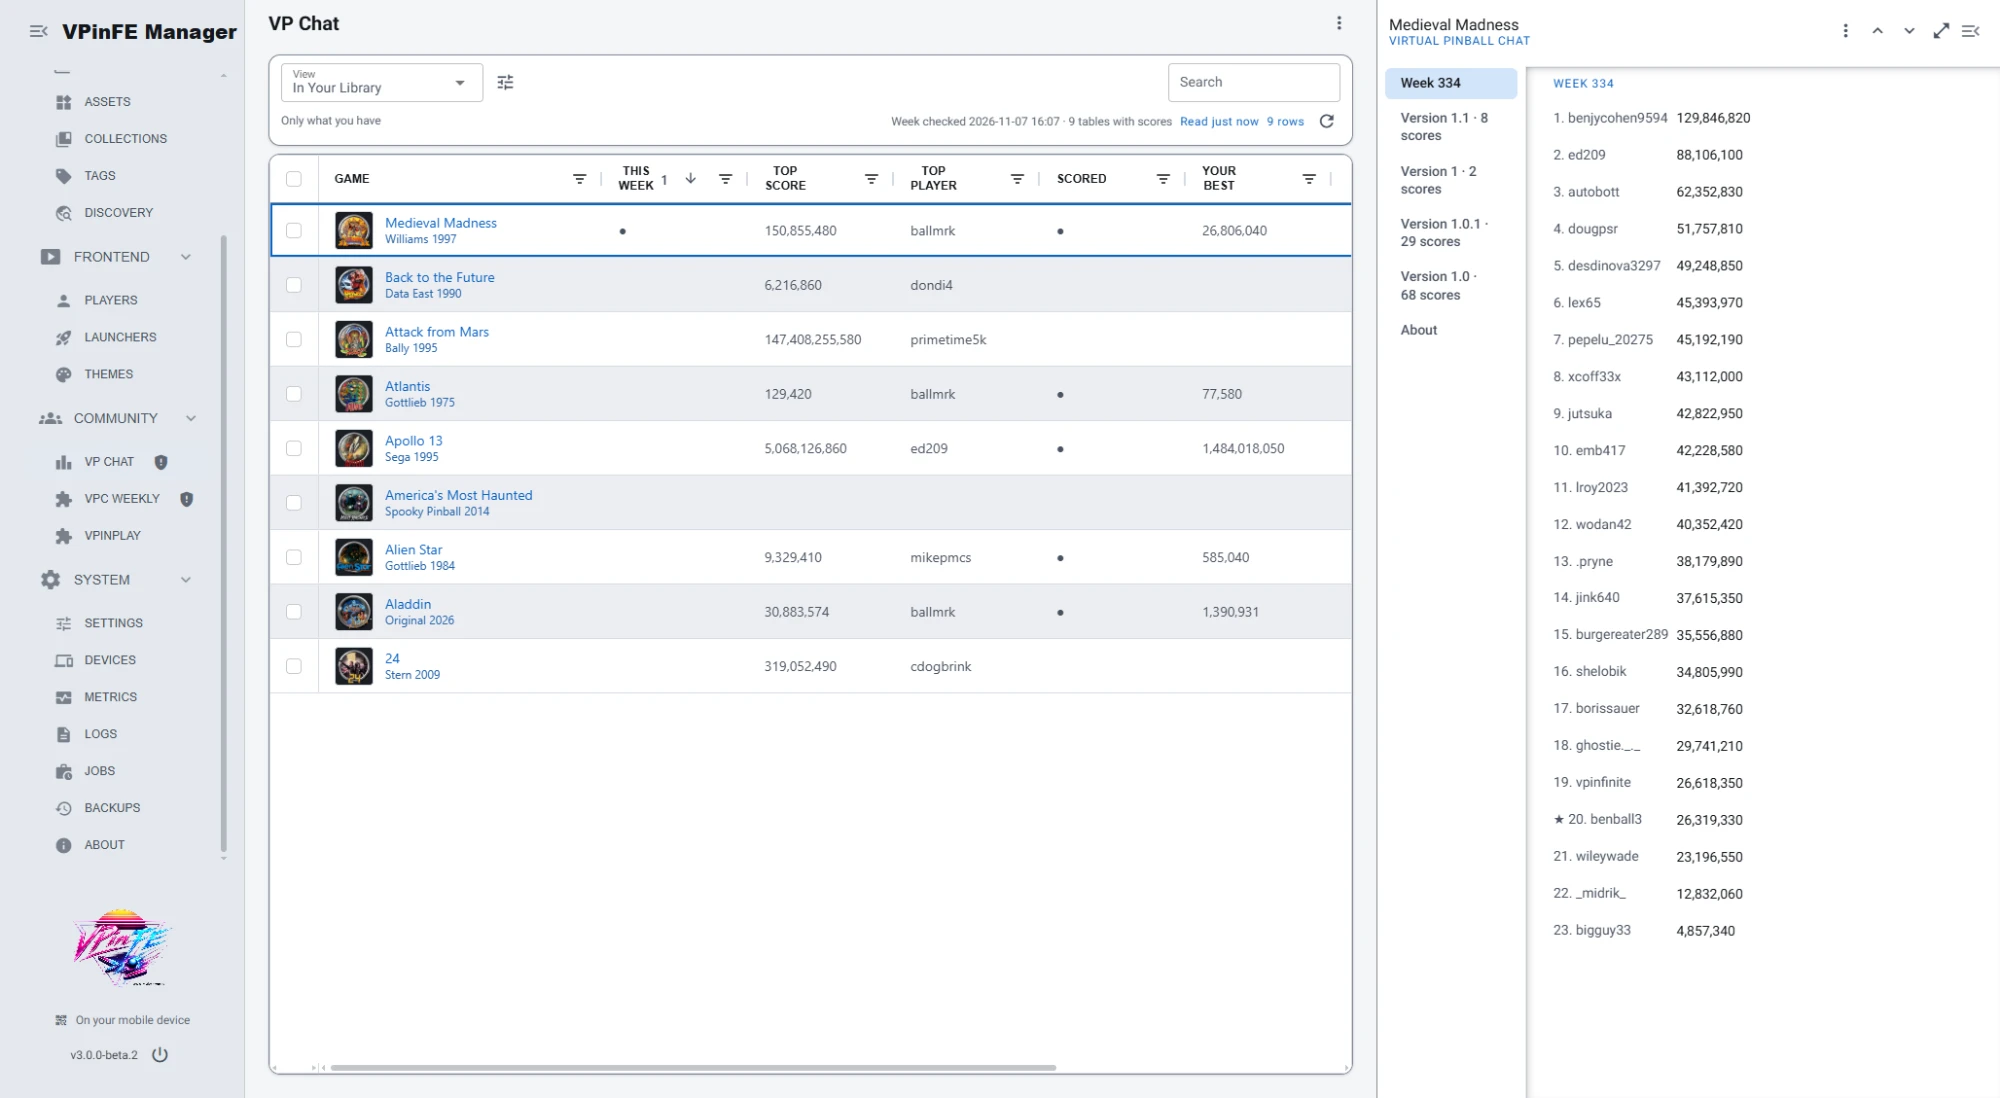
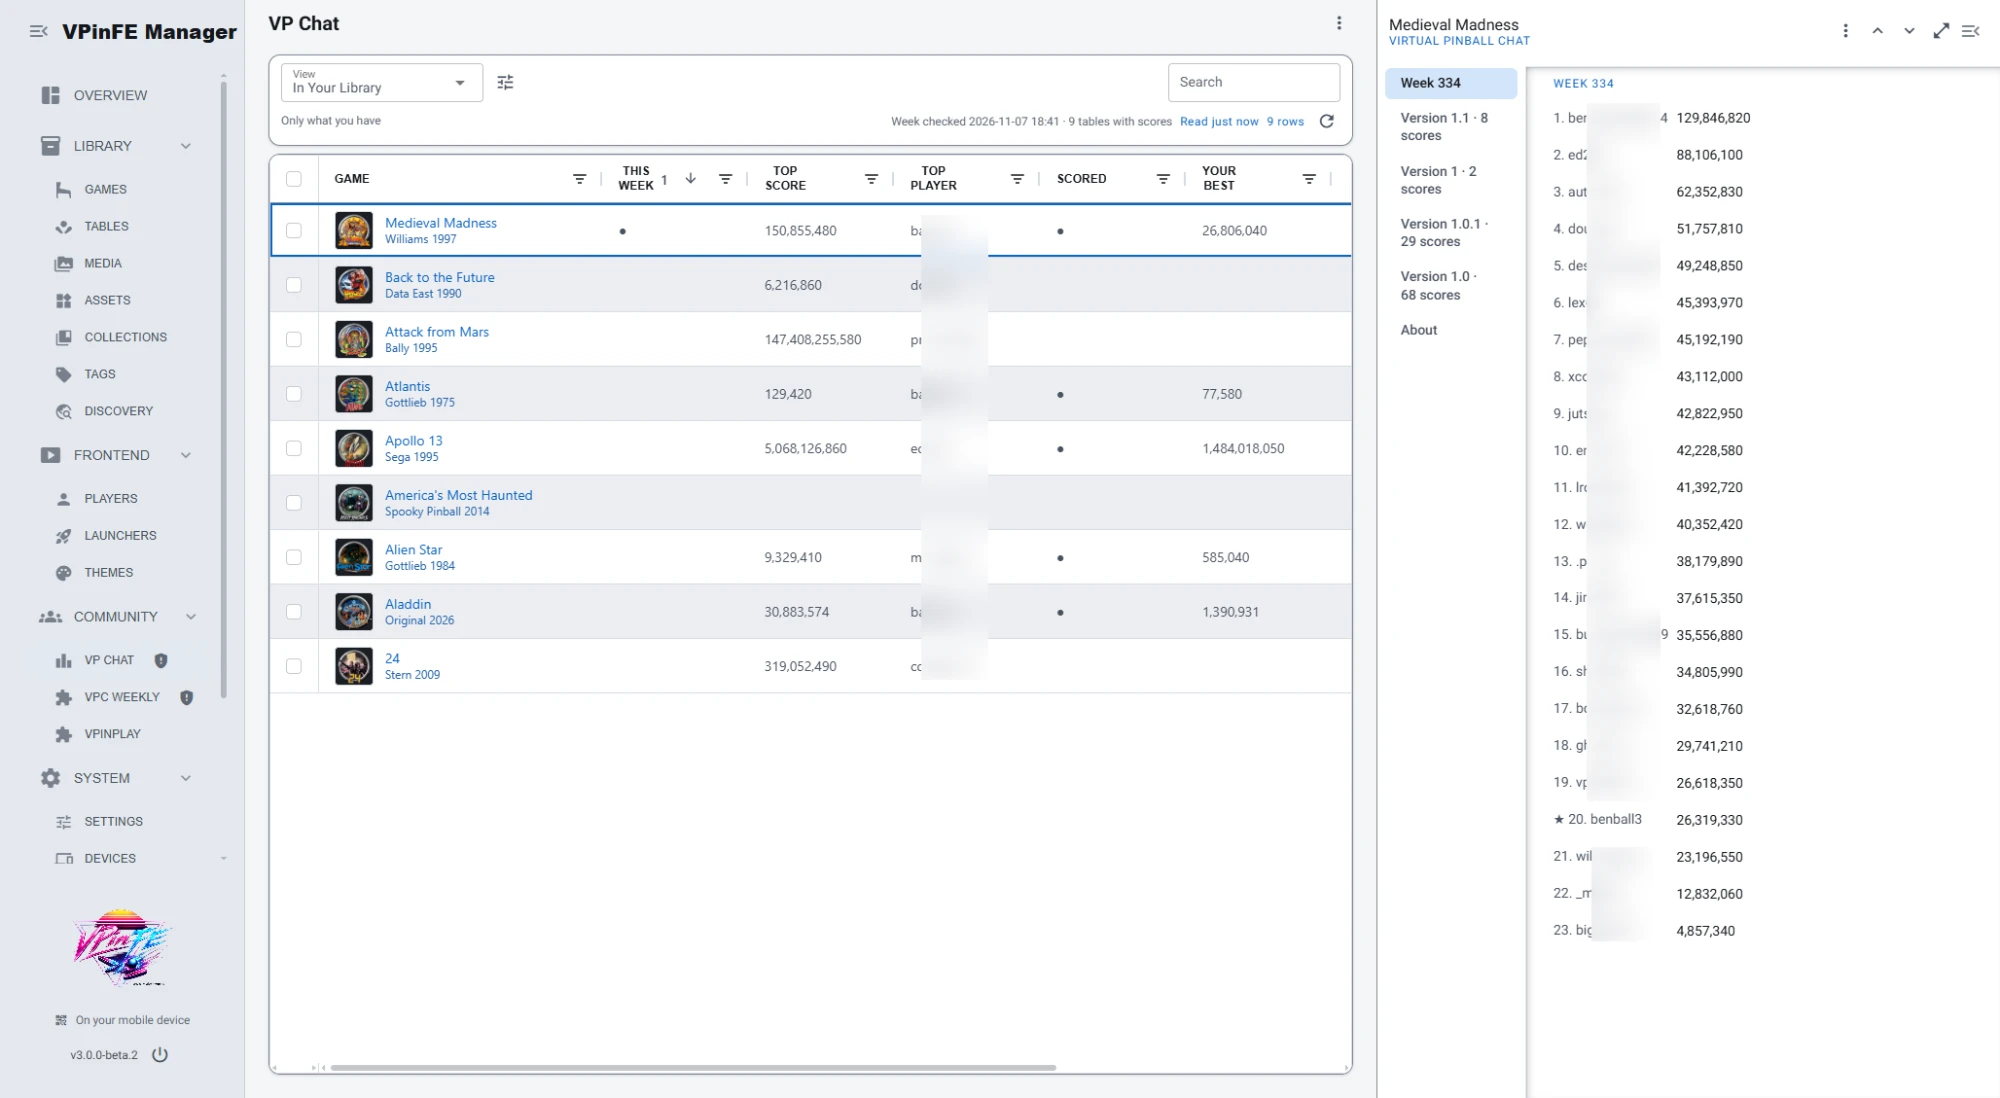
Rewrite the README, add CLAUDE.md and a new VP Chat screenshot
Rework the README to read more plainly: install near the top, numbered
setup steps, and tables for settings, permissions and files. Add
CLAUDE.md with working rules and an architecture overview, and replace
the main VP Chat screenshot.

diff --git a/README.md b/README.md
@@ -1,109 +1,115 @@
 # Virtual Pinball Chat for VPinFE
 
 > [!WARNING]
-> **Work in progress.** This extension is under active development. Settings, the cached data
-> and the `entry.ext` data given to themes may change in ways that break things between
-> versions.
+> This extension is a work in progress. Settings, cached data and the data passed to themes may
+> change between versions, and an update may break your setup.
 
-A [VPinFE](https://github.com/vpinfe/vpinfe) 3 extension for
-[Virtual Pinball Chat](https://virtualpinballchat.com) (VPC): the weekly competition, and the
-scores VPC holds for the tables in your library, with your own usernames flagged.
+A [VPinFE](https://github.com/vpinfe/vpinfe) 3 extension that brings
+[Virtual Pinball Chat](https://virtualpinballchat.com) (VPC) into your cabinet. It shows the VPC
+weekly competition and the VPC leaderboards for the tables in your library, and highlights your
+own scores.
 
-**The week's table is tagged `vpc-weekly` in your library**, and the tag moves when the week
-changes, so a Smart collection on that tag always holds this week's table. See
-[The weekly table in your collections](#the-weekly-table-in-your-collections).
+It also tags the current weekly table `vpc-weekly`, so you can build a collection that always
+holds this week's table. See [Collect the weekly table](#collect-the-weekly-table).
 
-## What it does
+![VP Chat in VPinFE Manager: the weekly table listed first, with the week's leaderboard open beside it](docs/vp-chat.webp)
 
-![VP Chat in VPinFE Manager: the weekly table listed first, with the week's board open beside it](docs/vp-chat.webp)
+## Features
 
-In the Manager, two entries under **Community**:
+- **VP Chat list.** Under **Community** in VPinFE Manager, a list of the weekly table and every
+  table you have VPC scores for. For each table you see the top score and who holds it, your best
+  score and rank, and when the scores were last updated. The weekly table is always first.
+  Switch between the **All Tables** and **My Scores** views.
+- **Leaderboards in context.** Click a table to see its leaderboard for each VPC version of it:
+  the top 10, then your own score with the scores just above and below it. If you're 87th,
+  you see who you need to beat. Your scores are marked with a star.
+- **Weekly tag.** The current weekly table is tagged `vpc-weekly`, and the tag moves when a new
+  week starts.
+- **Scores for themes.** Themes can read each table's leaderboard and the weekly competition, so
+  they can show them in the frontend. See [For theme authors](#for-theme-authors).
 
-- **VP Chat** lists the weekly table and every table in your library whose scores have been
-  asked of VPC. Columns show the top score and player, a dot under **Scored** where one of your
-  usernames has a score on the table, your best score and rank, and when it was last checked.
-  Scores are shown with thousands separators, and the weekly table (a dot under **This Week**) is
-  listed first. There is an **All Tables** view and a **My Scores**
-  view. Click a row for the boards: one section per VPC version of the table, showing the top 10
-  and then **your own line with the lines around it**, so a rank of 87 is visible in context.
-  Your lines are marked with a star.
-- **VPC Weekly** holds only this week's table, and is what puts the `vpc-weekly` tag on it (see
-  below).
+## Install
 
-**Scores for your themes.** Every game a theme draws gets its VPC leaderboards as
-`entry.ext.vpc`: each version's top scores, with your own rank and best score picked out. The
-weekly table also gets `entry.ext.vpc_weekly`, which holds the week and its board. A theme can
-then show a table's leaderboard, your standing and the weekly competition right in the frontend,
-with no setup of its own. See [For theme authors](#for-theme-authors) for the data.
+1. Clone or download this repository into the `extensions` folder of your VPinFE config
+   directory. On Windows this is `%LOCALAPPDATA%\vpinfe\vpinfe\extensions`. The folder must be
+   named `vpc_vpinfe`:
 
-## The weekly table in your collections
+   ```bash
+   git clone https://github.com/bennball3/vpc_vpinfe.git
+   ```
 
-This extension tags this week's table `vpc-weekly` in your library, and moves the tag to the new
-table when the week changes. Nothing else in your library is tagged, and you do not have to do
-anything to keep it up to date.
+2. Restart VPinFE.
+3. In VPinFE Manager, go to **Settings > Extensions** and accept the extension.
 
-The tag shows on the game like any other tag, so the weekly table is easy to spot when browsing:
+If you're upgrading from version 0.1, VPinFE asks you to accept the extension again, because it
+now needs the `config:own` permission.
 
-![The Games view in VPinFE Manager: Medieval Madness, the week's table, carries the vpc-weekly tag](docs/weekly-tag.webp)
+To check that VPinFE can load the extension, run this from the extension folder:
 
-To have a collection that always holds the week's table, go to **Library > Collections**, add a
-**Smart** collection, and give it one rule: **Tags**, **Is any of**, `vpc-weekly`:
-
-![A Smart collection named Competitions in VPinFE Manager, with the rule Tags is any of vpc-weekly, holding Medieval Madness](docs/weekly-smart-collection.webp)
-
-The collection follows the week on its own: when the week changes, the old table drops out and
-the new one appears.
-
-> [!NOTE]
-> Earlier versions used the tag `vp-weekly`. If you set up a collection on that tag, change its
-> rule to `vpc-weekly`.
-
-The extension does this through its **VPC Weekly** list: the list is registered with the
-`vpc-weekly` tag, and VPinFE tags the game of every row of a tagged list. That is why the tag sits
-on its own one-row list and not on VP Chat, which would tag every table in it.
-
-## How scores are collected
-
-There is no crawl of VPC. Scores are asked for one game at a time, as they are wanted:
-
-| When | What happens |
-|---|---|
-| You browse to a game | Its scores are used from the cache. If they were never fetched, or are older than **Keep Table Scores For**, one request for that game is queued |
-| You play a game | It is marked, and asked for again the next time you browse to it at least 5 minutes later (VPC scores are posted by hand, so right at exit is too early) |
-| **Check Now** (title menu) | Reads the week, then queues every game already held, one after another |
-| **Refresh Scores** (row menu) | Queues the selected games |
-| The weekly table | The last week is held between runs, so it is there at once; VPC is asked in the background a few seconds after VPinFE starts, then at the **Check the Weekly Table** interval |
-
-A game is searched as `Name (Maker Year)`, such as `24 (Stern 2009)`, then by name alone, and
-only versions that are one of the game's VPS table files are kept. Requests are made by one
-worker, a second apart. A game VPC does not know is remembered as having no scores for the same
-time.
-
-Scores are kept in full (not just the top 10), and between runs, in `cache/scores.json` in this
-folder. Delete it to start again.
+```bash
+vpinfe.exe --check-extension .
+```
 
 ## Settings
 
-Under **Settings > Extensions**:
+Find these in VPinFE Manager under **Settings > Extensions**.
 
-- **Your VPC Usernames**: comma separated. Matched ignoring case.
-- **Check the Weekly Table**: only when VPinFE starts, or every 30 minutes (the default), hour,
-  3, 6 or 12 hours, or day. VPinFE reads on a 30 minute tick, so a longer wait skips ticks.
-- **Keep Table Scores For**: forever (the default), or 1, 3, 7 or 30 days, for every table that is not the
-  weekly one.
+| Setting | What it does |
+|---|---|
+| **Your VPC Usernames** | Your VPC usernames, separated by commas. Scores from these names are highlighted. Case doesn't matter. |
+| **Check the Weekly Table** | How often to check for a new weekly table: only at startup, every 30 minutes (default), every 1, 3, 6 or 12 hours, or once a day. VPinFE runs this check on a 30-minute cycle, so intervals are rounded up to the next cycle. |
+| **Keep Table Scores For** | How long to keep a table's scores before fetching them again: forever (default), or 1, 3, 7 or 30 days. Doesn't apply to the weekly table. |
+
+## Collect the weekly table
+
+The extension tags the current weekly table `vpc-weekly`. When a new week starts, the tag moves to
+the new table. No other games get the tag.
+
+You can see the tag on the game in the **Games** view:
+
+![The Games view in VPinFE Manager: Medieval Madness, the week's table, has the vpc-weekly tag](docs/weekly-tag.webp)
+
+To make a collection that always holds the weekly table:
+
+1. In VPinFE Manager, go to **Library > Collections**.
+2. Add a **Smart** collection.
+3. Add one rule: **Tags**, **Is any of**, `vpc-weekly`.
+
+![A Smart collection named Competitions in VPinFE Manager, with the rule Tags is any of vpc-weekly, holding Medieval Madness](docs/weekly-smart-collection.webp)
+
+The collection updates by itself each week.
+
+The tag comes from the extension's **VPC Weekly** list, which you'll also see under
+**Community**. VPinFE tags every game in a tagged list, so the tag is on this one-table list
+rather than on VP Chat, where it would tag every table.
+
+## How scores are updated
+
+The extension doesn't download all of VPC. It fetches scores for one table at a time, only when
+you need them:
+
+| When | What happens |
+|---|---|
+| You browse to a table | The extension shows the saved scores. If there are none yet, or they're older than **Keep Table Scores For**, it fetches them. |
+| You play a table | The next time you browse to it, at least 5 minutes later, it fetches the scores again. The wait is there because players post VPC scores by hand after a game. |
+| You choose **Check Now** (title menu) | It checks the weekly table, then fetches scores again for every table it has saved. |
+| You choose **Refresh Scores** (row menu) | It fetches scores again for the selected tables. |
+| VPinFE starts | It shows the weekly table it saved last time straight away, then checks VPC for the current week a few seconds later, and again at the **Check the Weekly Table** interval. |
+
+To find a table on VPC, the extension searches for `Name (Manufacturer Year)`, for example
+`24 (Stern 2009)`, and then for the name alone. It keeps only the VPC versions that match one of
+the game's table files in VPS. It sends one request at a time, a second apart. If VPC has no
+scores for a table, the extension remembers that and doesn't ask again until the
+**Keep Table Scores For** time has passed.
+
+Scores are saved in full in `cache/scores.json` in the extension folder. To start fresh, delete
+that file.
 
 ## For theme authors
 
-On the weekly game, `entry.ext.vpc_weekly` (empty on every other game):
+The extension adds two fields to the game entries a theme receives.
 
-```json
-{"week": 334, "starts": "2026-11-02", "ends": "2026-11-08",
- "table": "Medieval Madness (Williams 1997)", "vps_release_id": "zbyQ01wi3L", "page": "https://...",
- "scores": [{"rank": 1, "player": "...", "score": 129846820, "posted": "2026-11-06T21:35:47",
-             "url": "https://discord.com/...", "mine": false}]}
-```
-
-On any game with held scores, `entry.ext.vpc`:
+`entry.ext.vpc` is set on every game with saved scores:
 
 ```json
 {"versions": [{"vps_release_id": "...", "version": "1.0.1", "authors": "...", "page": "https://...",
@@ -114,38 +120,42 @@ On any game with held scores, `entry.ext.vpc`:
  "fetched": "2026-11-07T15:00:00Z"}
 ```
 
-Each version's `scores` holds the top 25 plus your own lines, each with its true `rank`. The
-version 0.1 weekly scores' `avatar`, `points` and `id` are no longer provided.
+- `versions` has one entry per VPC version of the table. Each version's `scores` holds the top 25
+  plus your own scores, each with its real `rank`. `mine` is `true` for your scores.
+- `mine` lists all your scores across the versions, best rank first. `of` is the number of
+  scores on that version's leaderboard.
 
-The weekly game is also tagged `vpc-weekly`; see
-[The weekly table in your collections](#the-weekly-table-in-your-collections).
+`entry.ext.vpc_weekly` is set only on the weekly game, and is empty on every other game:
 
-## Capabilities
-
-| Capability | Why |
-|---|---|
-| `net:outbound` | To read the week and each game's scores from virtualpinballchat.com |
-| `ui:mount` | For the VP Chat and VPC Weekly lists under Community |
-| `config:own` | For the settings above |
-
-| Scope | Why |
-|---|---|
-| `games:read` | To find which game a VPC table belongs to in VPinFE's VPS catalog. It changes nothing in your library |
-
-## Code layout
-
-`__init__.py` wires it up; `client.py` speaks to VPC; `library.py` finds the game; `store.py`
-keeps scores in memory and on disk; `refresher.py` decides when to ask; `boards.py` ranks scores
-and finds your lines; `community.py` draws the lists and theme entries.
-
-## Install
-
-Put this folder at `extensions/vpc_vpinfe` under the VPinFE config directory (the folder name
-must stay `vpc_vpinfe`), restart VPinFE, and accept it under **Settings > Extensions**. It asks
-again after an upgrade from 0.1 because of the new `config:own` capability.
-
-Check it with:
-
+```json
+{"week": 334, "starts": "2026-11-02", "ends": "2026-11-08",
+ "table": "Medieval Madness (Williams 1997)", "vps_release_id": "zbyQ01wi3L", "page": "https://...",
+ "scores": [{"rank": 1, "player": "...", "score": 129846820, "posted": "2026-11-06T21:35:47",
+             "url": "https://discord.com/...", "mine": false}]}
 ```
-vpinfe.exe --check-extension .
-```
+
+Version 0.1 also included `avatar`, `points` and `id` in the weekly scores. These have been
+removed.
+
+## Permissions
+
+VPinFE asks you to accept these when you install the extension.
+
+| Permission | Why the extension needs it |
+|---|---|
+| `net:outbound` | To fetch the weekly table and scores from virtualpinballchat.com. |
+| `ui:mount` | To add the VP Chat and VPC Weekly lists under **Community**. |
+| `config:own` | To store its settings. |
+| `games:read` (scope) | To match VPC tables to games in your library using VPinFE's VPS data. It doesn't change your library. |
+
+## Project layout
+
+| File | Purpose |
+|---|---|
+| `__init__.py` | Sets up the extension. |
+| `client.py` | Talks to the VPC API. |
+| `library.py` | Matches VPC tables to games in your library. |
+| `store.py` | Keeps scores in memory and saves them to disk. |
+| `refresher.py` | Decides when to fetch scores. |
+| `boards.py` | Ranks scores and finds yours. |
+| `community.py` | Builds the lists and the data for themes. |

diff --git a/CLAUDE.md b/CLAUDE.md
@@ -1,0 +1,83 @@
+# CLAUDE.md
+
+This file provides guidance to Claude Code (claude.ai/code) when working with code in this repository.
+
+## What this is
+
+A [VPinFE](https://github.com/vpinfe/vpinfe) 3 extension that shows
+[Virtual Pinball Chat](https://virtualpinballchat.com) (VPC) scores: the weekly competition and
+the leaderboards for tables in the user's library. VPinFE loads it from
+`extensions/vpc_vpinfe` in its config directory. The folder name must stay `vpc_vpinfe` (the same as
+`name` in `extension.json`).
+
+## Working rules
+
+- **The repo is public on GitHub.** Treat every file, commit message and screenshot as
+  world-readable. Keep personal paths, other people's VPC usernames and local config out of it.
+  `cache/` holds the user's saved scores and is gitignored.
+- **Always ask before committing or pushing**, every time, even if a commit was approved earlier
+  in the session.
+- Keep each file's existing line endings. `__init__.py` uses CRLF and the rest use LF. `sed -i`
+  in Git Bash strips CR, so check `git diff --stat` after any shell edit.
+
+## Commands
+
+There is no build step, linter or test suite. VPinFE runs the code directly. To check that
+VPinFE can load the extension, run this from the extension folder:
+
+```bash
+vpinfe.exe --check-extension .
+```
+
+The modules import `common.extensions.contract` (`Unavailable`, `get_json`, `why`) from VPinFE
+itself, so they can't be imported or run outside VPinFE. A quick standalone check is
+`python -m py_compile *.py` plus parsing `i18n/en.json`.
+
+## Architecture
+
+`register(ctx)` in `__init__.py` is the entry point. It wires up the modules below and
+subscribes to VPinFE's `table.play_recorded` event. Everything talks to VPinFE through `ctx`:
+`ctx.ui` (settings and lists), `ctx.games` (the library and VPS catalog), `ctx.config`,
+`ctx.entries` (data passed to themes), `ctx.events` and `ctx.t` (i18n).
+
+How the modules depend on each other:
+
+- `client.py` is the stateless VPC API layer: `currentWeek` and a fuzzy table search. Network
+  failures become `Unavailable`, which VPinFE reports as a service failure.
+- `library.py` maps a VPC table to a library game. VPC's `vpsId` is a VPS *release* (one table
+  file), not a game, so it is resolved through VPinFE's VPS catalog
+  (`ctx.games.vps_releases` / `vps_settle`).
+- `store.py` (`ScoreStore`) holds the week and each game's scores in memory and writes them
+  atomically to `cache/scores.json`. VPinFE gives extensions no data folder of their own, so the
+  cache lives next to the code. A play marks a game "dirty" and it's refetched after
+  `SETTLE_SECONDS`, because VPC scores are posted by hand.
+- `refresher.py` (`Refresher`) decides when to fetch. There is no crawl: one daemon worker
+  thread fetches one game at a time, `PACE_SECONDS` apart, and exits when idle. Games are queued
+  when browsed to (via the theme entry), when played, or from Check Now / Refresh Scores. The
+  week is read a few seconds after launch (`start_launch_check`) and then on the
+  `check_every` interval, measured against VPinFE's 30-minute ticks. After any change it calls
+  `ctx.entries.stale("vpc")` / `stale("vpc_weekly")` so themes pick up the new data.
+- `boards.py` holds pure functions that rank a leaderboard, flag the user's lines and pick the
+  rows to show.
+- `community.py` registers everything the user and themes see:
+  - the **VP Chat** list (`ctx.ui.list(CHAT, ...)`) with its views, row actions and detail pane;
+  - the one-row **VPC Weekly** list, registered with `tag="vpc-weekly"`. VPinFE tags the game
+    of every row in a tagged list, so the tag must stay on this one-row list and never go on
+    VP Chat;
+  - the theme entries `entry.ext.vpc` and `entry.ext.vpc_weekly`. Building `vpc` for a game is
+    also what queues a fetch when that game's scores are stale.
+- `settings.py` defines the three settings. VPinFE sends no change event, so every reader calls
+  `ctx.config` again each time.
+
+User-facing strings live in `i18n/en.json` and are looked up with `ctx.t(key)`. Add new UI text
+there rather than hard-coding it. The `vpc-weekly` tag and the shape of the `entry.ext` data are
+documented in the README for users and theme authors, so update the README when either changes.
+`extension.json` lists the capabilities and scopes. Adding one makes users accept the extension
+again, and the README's Permissions table should match.
+
+## README style
+
+The README was rewritten to read naturally, following the Google developer documentation
+style. Keep it that way: address the reader as "you", use active voice and sentence-case
+headings, bold only UI labels, use numbered lists for steps, give every image alt text, and
+avoid em dashes. Screenshots go in `docs/` as `.webp`.
